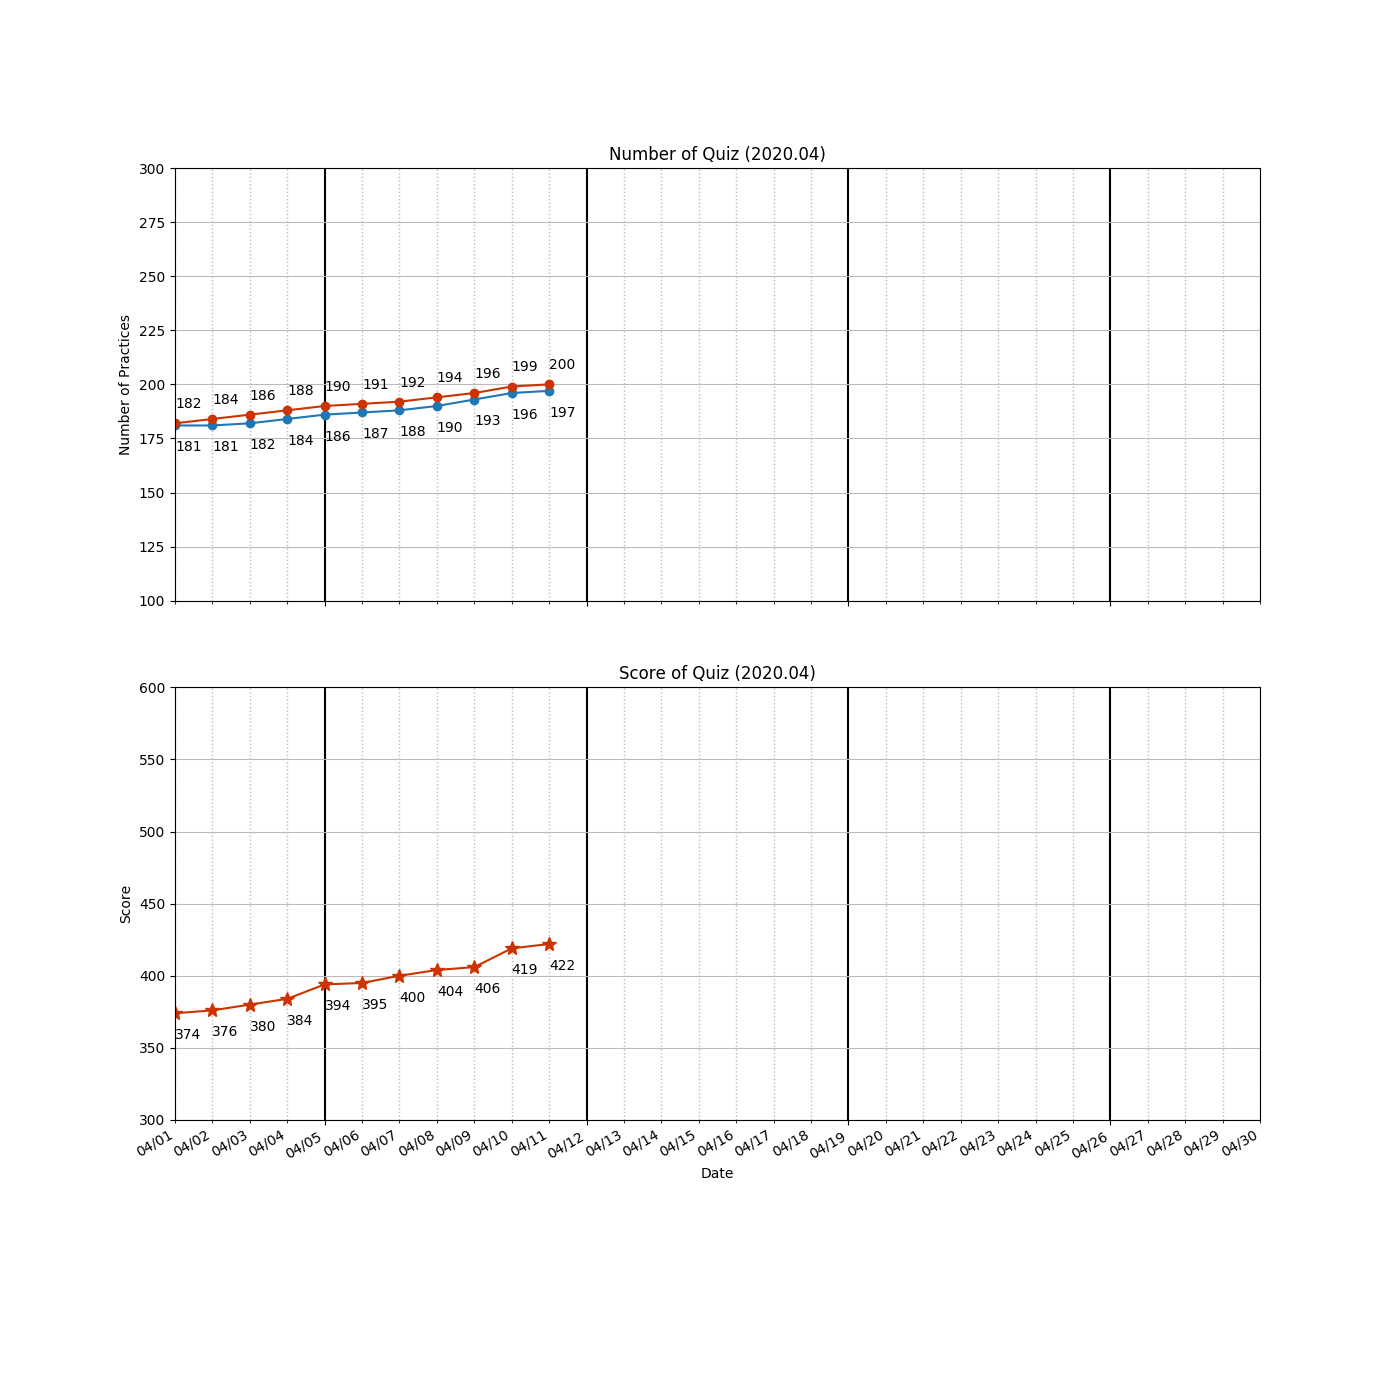
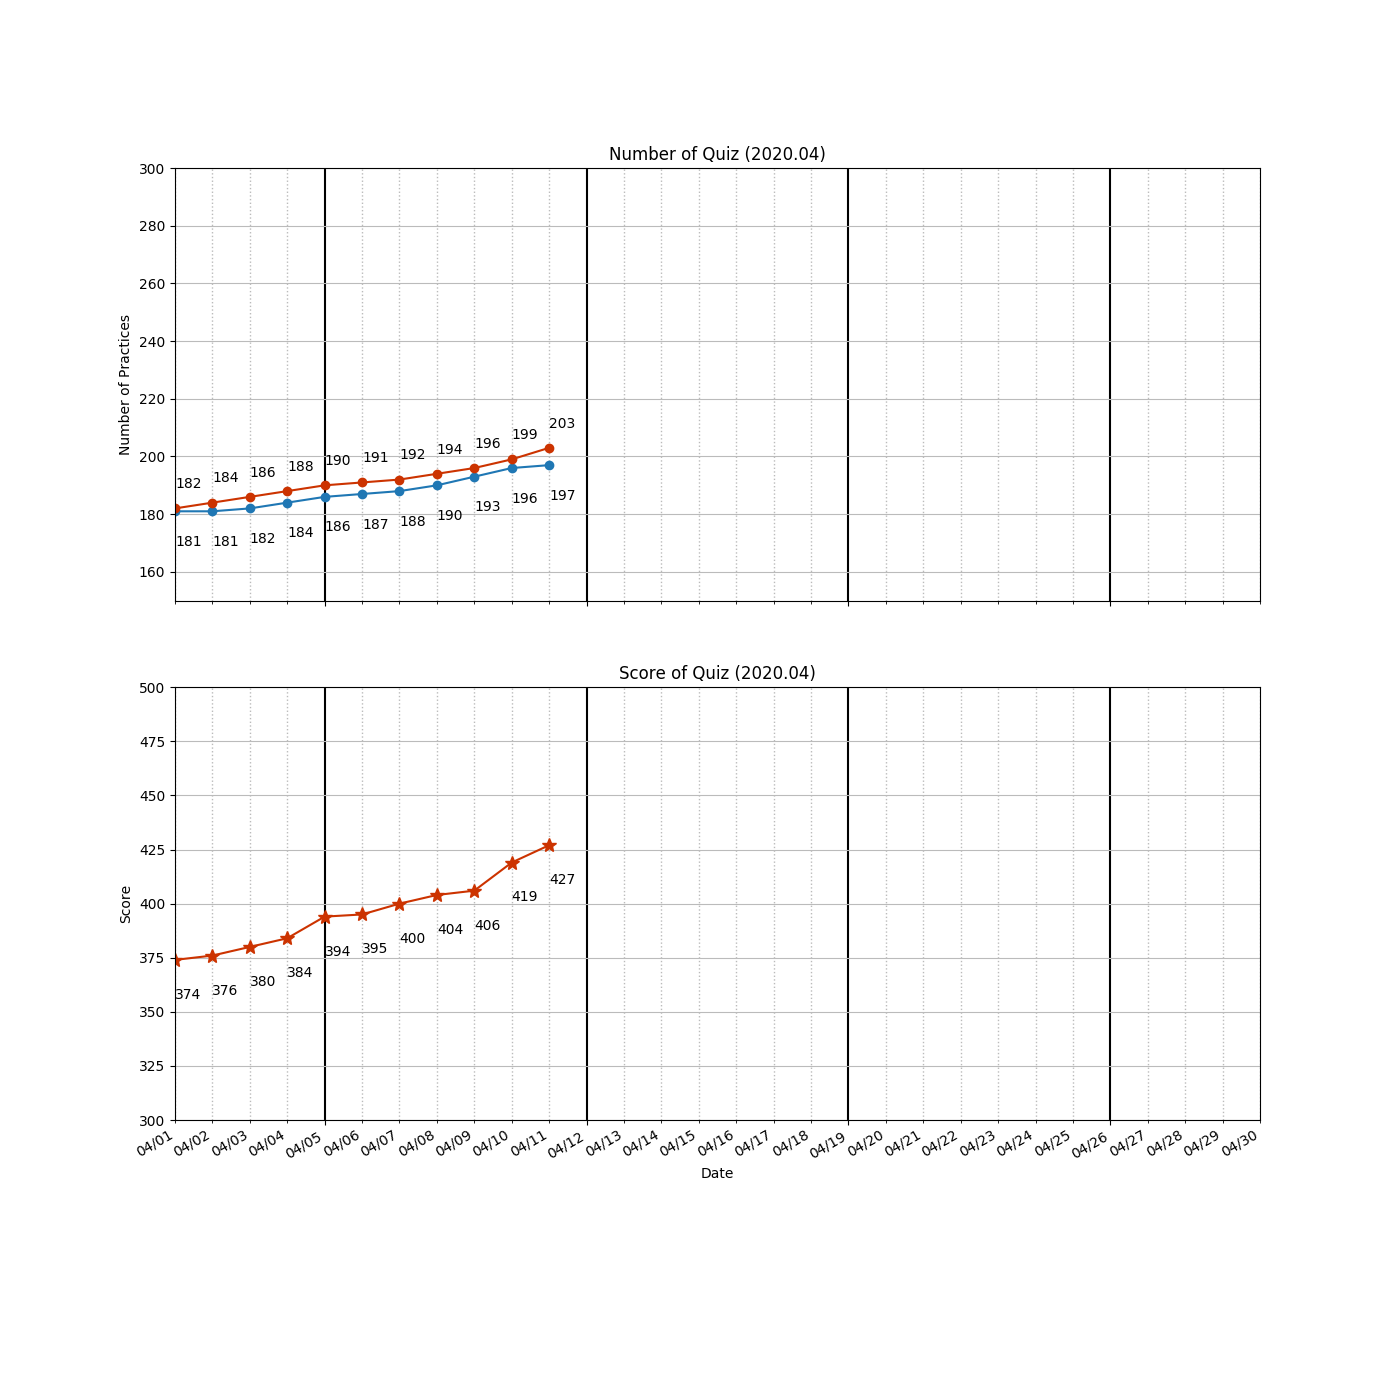
Updated statistics

diff --git a/algodraw.py b/algodraw.py
@@ -141,7 +141,7 @@ def draw(dates, values):
     axs[0].set(xlabel="Date", ylabel="Number of Practices",
         title="Number of Quiz (2020.04)")
     axs[0].set_xlim(datetime.datetime(2020,4,1), datetime.datetime(2020,4,30)) 
-    axs[0].set_ylim(100,300) #number of quiz
+    axs[0].set_ylim(150,300) #number of quiz
     axs[0].grid(which='major', color='k', axis ='x', linestyle='-', linewidth=1.5)
     axs[0].grid(which='minor', color='#bbbbbb', axis ='x', linestyle=':', linewidth=1)
     axs[0].grid(which='major', color='#bbbbbb', axis ='y')
@@ -151,7 +151,7 @@ def draw(dates, values):
     axs[1].set(xlabel="Date", ylabel="Score",
         title="Score of Quiz (2020.04)")
     #ax2.set_xlim(datetime.datetime(2020,4,1), datetime.datetime(2020,4,30)) 
-    axs[1].set_ylim(300,600) #score of quiz
+    axs[1].set_ylim(300,500) #score of quiz
     axs[1].grid(which='major', color='k', axis ='x', linestyle='-', linewidth=1.5)
     axs[1].grid(which='minor', color='#bbbbbb', axis ='x', linestyle=':', linewidth=1)
     axs[1].grid(which='major', color='#bbbbbb', axis ='y')

diff --git a/README.md b/README.md
@@ -468,6 +468,7 @@ Num of Python Practice:  197
  0064 Minimum Path Sum
  0069 Sqrt(x)
  0070 Climbing Stairs
+ 0073 Set Matrix Zeroes
  0074 Search a 2D Matrix
  0075 Sort Colors
  0077 Combinations
@@ -608,8 +609,10 @@ Num of Python Practice:  197
  0784 Letter Case Permutation
  0819 Most Common Word
  0841 Keys and Rooms
+ 0844 Backspace String Compare
  0852 Peak Index in a Mountain Array
  0867 Transpose Matrix
+ 0876 Middle of the Linked List
  0877 Stone Game
  0896 Monotonic Array
  0905 Sort Array By Parity
@@ -629,11 +632,11 @@ Num of Python Practice:  197
  1358 Number of Substrings Containing All Three Characters
  1391 Check if There is a Valid Path in a Grid
 =====================================
-Solved / Total (Easy)  :   98 /  395
-Solved / Total (Medium):   93 /  718
+Solved / Total (Easy)  :  100 /  395
+Solved / Total (Medium):   94 /  718
 Solved / Total (Hard)  :    9 /  294
-Solved / Total (All)   :  200 / 1407
-Total Score            :  422
+Solved / Total (All)   :  203 / 1407
+Total Score            :  427
 =====================================
 
 ```
